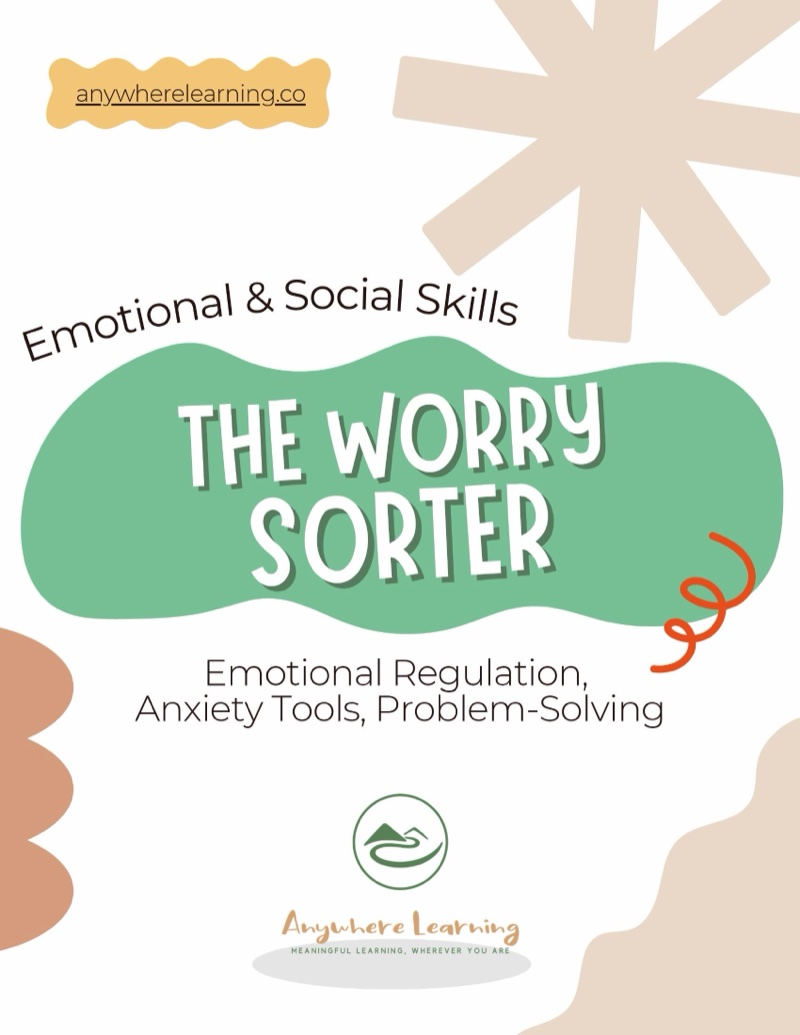
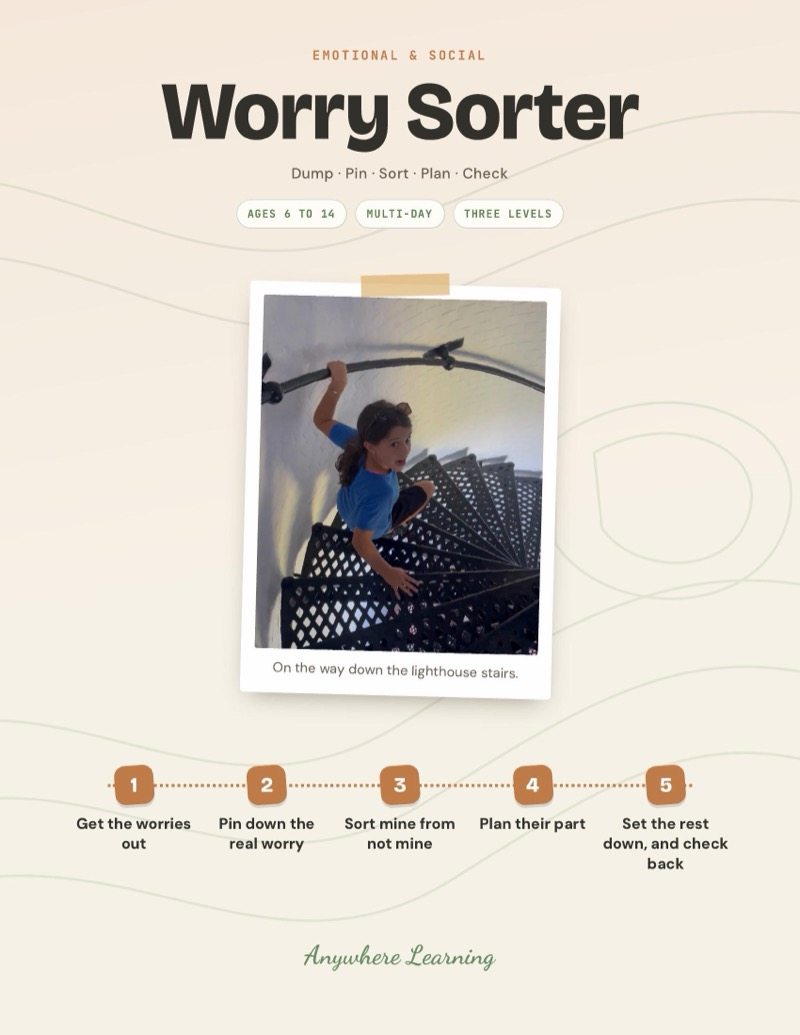
Worry Sorter: redesigned guide, lighthouse stairs story and photo, mine vs not mine sort, multi-day

diff --git a/scripts/seed.ts b/scripts/seed.ts
@@ -146,7 +146,7 @@ async function seed() {
     { name: 'Reading the Room', slug: 'reading-the-room', description: 'Practise noticing what others feel before words. Scan a room, read body language, infer the backstory.', shortDescription: 'Read body language and scan a room.', priceCents: 599, compareAtPriceCents: null, stripePriceId: 'price_1TdZpjAkIBECpwGmj3tD6ezs', blobUrl: 'https://xkj3tzlgu6ylgllk.public.blob.vercel-storage.com/Emotional%20%26%20Social%20Skills%20-%20Reading%20the%20Room.pdf', imageUrl: '/products/reading-the-room.jpg', category: 'emotional-social-skills', isBundle: false, bundleProductIds: null, activityCount: null, ageRange: 'Ages 9–14', sortOrder: 228, active: true },
     { name: 'The Conflict Fix', slug: 'conflict-fix', description: 'A real script for fights with siblings or friends: cool down, say it without attacking, hear the other side, find the fix.', shortDescription: 'A real script for conflict resolution.', priceCents: 599, compareAtPriceCents: null, stripePriceId: 'price_1TdZpjAkIBECpwGmhgx7Rtab', blobUrl: 'https://xkj3tzlgu6ylgllk.public.blob.vercel-storage.com/Emotional%20%26%20Social%20Skills%20-%20The%20Conflict%20Fix.pdf', imageUrl: '/products/conflict-fix.jpg', category: 'emotional-social-skills', isBundle: false, bundleProductIds: null, activityCount: null, ageRange: 'Ages 6–14', sortOrder: 229, active: true },
     { name: 'The Solo Mission', slug: 'solo-mission', description: 'Take on age-right do-it-without-me challenges: order at a counter, call a place, run an errand.', shortDescription: 'Solo missions in the real world.', priceCents: 599, compareAtPriceCents: null, stripePriceId: 'price_1TdZpkAkIBECpwGmxbgBC5hB', blobUrl: 'https://xkj3tzlgu6ylgllk.public.blob.vercel-storage.com/Emotional%20%26%20Social%20Skills%20-%20The%20Solo%20Mission.pdf', imageUrl: '/products/solo-mission.jpg', category: 'emotional-social-skills', isBundle: false, bundleProductIds: null, activityCount: null, ageRange: 'Ages 6–14', sortOrder: 230, active: true },
-    { name: 'The Worry Sorter', slug: 'worry-sorter', description: 'Sort spinning worries into can-control vs cannot-control. Plan the controllable, practise letting go of the rest.', shortDescription: 'Sort worries and plan the controllable.', priceCents: 599, compareAtPriceCents: null, stripePriceId: 'price_1TdZpkAkIBECpwGmGO1cFkPF', blobUrl: 'https://xkj3tzlgu6ylgllk.public.blob.vercel-storage.com/Emotional%20%26%20Social%20Skills%20-%20The%20Worry%20Sorter.pdf', imageUrl: '/products/worry-sorter.jpg', category: 'emotional-social-skills', isBundle: false, bundleProductIds: null, activityCount: null, ageRange: 'Ages 6–14', sortOrder: 231, active: true },
+    { name: 'Worry Sorter', slug: 'worry-sorter', description: 'Your kid learns that most worries are two things stuck together: a part they cannot change and a part they can. They get their worries out, pin down the real one, sort theirs from the rest, plan their part, then check back afterwards to see what really happened.', shortDescription: 'Worry activity for kids ages 6-14: pin down the real worry, sort what they can change from what they cannot, plan their part and let the rest go.', priceCents: 599, compareAtPriceCents: null, stripePriceId: 'price_1TdZpkAkIBECpwGmGO1cFkPF', blobUrl: 'https://xkj3tzlgu6ylgllk.public.blob.vercel-storage.com/Emotional%20%26%20Social%20Skills%20-%20The%20Worry%20Sorter.pdf', imageUrl: '/products/worry-sorter.jpg', category: 'emotional-social-skills', isBundle: false, bundleProductIds: null, activityCount: null, ageRange: 'Ages 6–14', sortOrder: 231, active: true },
 
     // === START HERE (sortOrder 90) ===
     { name: 'The Future-Ready Skills Map', slug: 'future-ready-skills-map', description: 'A 44-page parent guide to the 12 skill areas that matter most for kids ages 0-16+, organised into three age phases (Play, Build, Apply).', shortDescription: '44-page parent guide: 12 future-ready skill areas, ages 0-16+.', priceCents: 999, compareAtPriceCents: null, stripePriceId: 'price_1T9JSZAMzOBftCntfh73EgWC', blobUrl: '', imageUrl: '/products/future-ready-skills-map.jpg', category: 'start-here', isBundle: false, bundleProductIds: null, activityCount: null, ageRange: 'Ages 0\u201316+', sortOrder: 90, active: true },

diff --git a/lib/product-descriptions.ts b/lib/product-descriptions.ts
@@ -2786,22 +2786,24 @@ export const productDescriptions: Record<string, ProductDescription> = {
   },
   'worry-sorter': {
     opening:
-      'Your child takes what\'s spinning in their head, sorts it into can-control vs cannot-control, makes a plan for the controllable, and practises letting go of the rest. A real anxiety tool, not a calming poster.',
+      'Your kid learns that most worries are two things stuck together: a part they cannot change and a part they can. They get their worries out, pin down the real one, sort theirs from the rest, plan their part, then check back afterwards to see what really happened.',
     whatsIncluded: [
-      'Brain-dump step: get the spin out on paper',
-      'Can-control vs cannot-control sorting framework',
-      'Action plan for the controllable list',
-      'Let-it-go practice for the rest',
-      'Version 2 review after a week of using it',
+      'Five steps, from getting the worries out to checking what really happened',
+      'Pin it down, Mine or not mine, My part and Set it down cards',
+      'A worked example: scared to fall on the way down a lighthouse',
+      'My worry check, to compare the worry with what happened',
+      'Three levels per step, from ages 6 to 14',
     ],
-    skillTags: ['Emotional Regulation', 'Anxiety Tools', 'Problem-Solving'],
+    skillTags: ['Coping Skills', 'Emotional Regulation', 'Problem-Solving', 'Planning', 'Resilience'],
     insideTheLearning: {
       lead:
-        'Your child takes a spinning, shapeless worry and breaks it into specific named ones. Then they sort them: what they can act on, and what they cannot. A plan for the first pile, and practice at setting down the second.',
+        'A worry feels like one big thing. Your kid learns to split it: the part nobody can change, like how high a lighthouse is, and the part they can, like holding the rail and going slowly. Doing their part, and checking back on what really happened, makes the next worry smaller.',
       skills: [
-        { skill: 'Emotional Regulation', where: 'Turning a spinning feeling into specific, named worries' },
-        { skill: 'Anxiety Tools', where: 'Telling apart what they can act on from what they cannot, and setting the rest down' },
-        { skill: 'Problem-Solving', where: 'Building a real plan for the things that are actually in their control' },
+        { skill: 'Coping Skills', where: 'Setting down the part of a worry they cannot change' },
+        { skill: 'Emotional Regulation', where: 'Turning a spinning worry into one exact, named fear' },
+        { skill: 'Problem-Solving', where: 'Sorting what is theirs from what is not' },
+        { skill: 'Planning', where: 'Picking one small action to do before or during the hard moment' },
+        { skill: 'Resilience', where: 'Checking back on worries that turned out fine' },
       ],
     },
     format: 'Project Guide',

diff --git a/lib/fallback-products.ts b/lib/fallback-products.ts
@@ -2516,18 +2516,18 @@ export const fallbackProducts: FallbackProduct[] = [
   },
   {
     id: "fb-worry-sorter",
-    name: "The Worry Sorter",
+    name: "Worry Sorter",
     slug: "worry-sorter",
     description:
-      "Your child takes what's spinning in their head, sorts it into can-control vs cannot-control, makes a plan for the controllable, and practises letting go of the rest. A real anxiety tool, not a calming poster.",
+      "Your kid learns that most worries are two things stuck together: a part they cannot change and a part they can. They get their worries out, pin down the real one, sort theirs from the rest, plan their part, then check back afterwards to see what really happened.",
     shortDescription:
-      "Anxiety tool for kids ages 6-14: sort worries into can-control vs cannot-control, plan the controllable, let go of the rest.",
+      "Worry activity for kids ages 6-14: pin down the real worry, sort what they can change from what they cannot, plan their part and let the rest go.",
     priceCents: 599,
     compareAtPriceCents: null,
     stripePriceId: "price_1TdZpkAkIBECpwGmGO1cFkPF",
     blobUrl: "https://xkj3tzlgu6ylgllk.public.blob.vercel-storage.com/Emotional%20%26%20Social%20Skills%20-%20The%20Worry%20Sorter.pdf",
-    imageUrl: "/products/worry-sorter.jpg?v=2",
-    previewFile: "Preview Emotional & Social Skills - The Worry Sorter.pdf",
+    imageUrl: "/products/worry-sorter.jpg?v=3",
+    previewFile: "Preview Emotional & Social Skills - The Worry Sorter v3.pdf",
     category: "emotional-social-skills",
     isBundle: false,
     bundleProductIds: null,

diff --git a/lib/activity-blob-urls.ts b/lib/activity-blob-urls.ts
@@ -137,7 +137,7 @@ export const ACTIVITY_BLOB_URLS: Record<string, string> = {
   "what-if-scenario-lab": "https://xkj3tzlgu6ylgllk.public.blob.vercel-storage.com/Planning%20%26%20Problem-Solving%20The%20What%20If%20Scenario%20Lab%20v7.pdf",
   "winter-outdoor-pack": "https://xkj3tzlgu6ylgllk.public.blob.vercel-storage.com/Outdoor%20Learning%20-%20Anywhere%20Learning%20Winter%20v2.pdf",
   "world-food-detective": "https://xkj3tzlgu6ylgllk.public.blob.vercel-storage.com/Worldschooling%20-%20World%20Food%20Detective%20v4.pdf",
-  "worry-sorter": "https://xkj3tzlgu6ylgllk.public.blob.vercel-storage.com/Emotional%20%26%20Social%20Skills%20-%20The%20Worry%20Sorter%20v2.pdf",
+  "worry-sorter": "https://xkj3tzlgu6ylgllk.public.blob.vercel-storage.com/Emotional%20%26%20Social%20Skills%20-%20The%20Worry%20Sorter%20v3.pdf",
   "write-like-a-pro": "https://xkj3tzlgu6ylgllk.public.blob.vercel-storage.com/Communication%20%26%20Writing%20-%20Write%20it%20like%20a%20pro%20v5.pdf",
 };
 

diff --git a/scripts/create-stripe-products.ts b/scripts/create-stripe-products.ts
@@ -128,7 +128,7 @@ const catalog = [
   { slug: 'reading-the-room', name: 'Reading the Room', priceCents: 599, description: 'Scan a room, read body language, infer the backstory.' },
   { slug: 'conflict-fix', name: 'The Conflict Fix', priceCents: 599, description: 'A real script for working through fights with siblings or friends.' },
   { slug: 'solo-mission', name: 'The Solo Mission', priceCents: 599, description: 'Age-right do-it-without-me challenges that build real independence.' },
-  { slug: 'worry-sorter', name: 'The Worry Sorter', priceCents: 599, description: 'Sort worries into can-control vs cannot-control, plan the rest.' },
+  { slug: 'worry-sorter', name: 'Worry Sorter', priceCents: 599, description: 'Worry activity for kids ages 6-14: pin down the real worry, sort what they can change from what they cannot, plan their part and let the rest go.' },
 ];
 
 // Slugs where the image filename doesn't match {slug}.jpg

diff --git a/lib/activity-effort.ts b/lib/activity-effort.ts
@@ -143,7 +143,7 @@ export const EFFORT_BY_SLUG: Record<string, Effort> = {
   'reading-the-room': 'Half-Day',
   'conflict-fix': 'Quick',
   'solo-mission': 'Project',
-  'worry-sorter': 'Quick',
+  'worry-sorter': 'Project',
 
   // Free-guide full versions
   'square-foot-safari': 'Half-Day',
